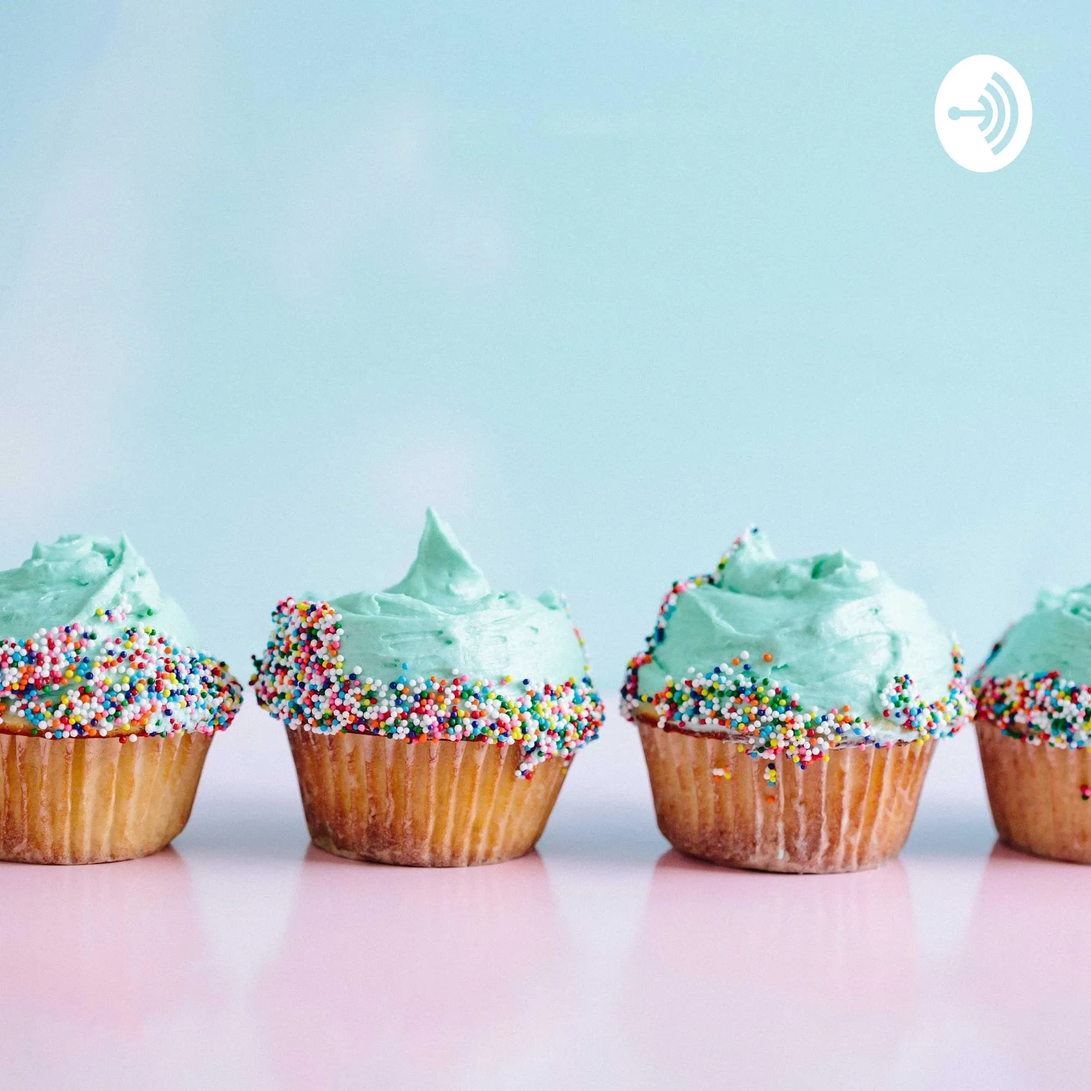
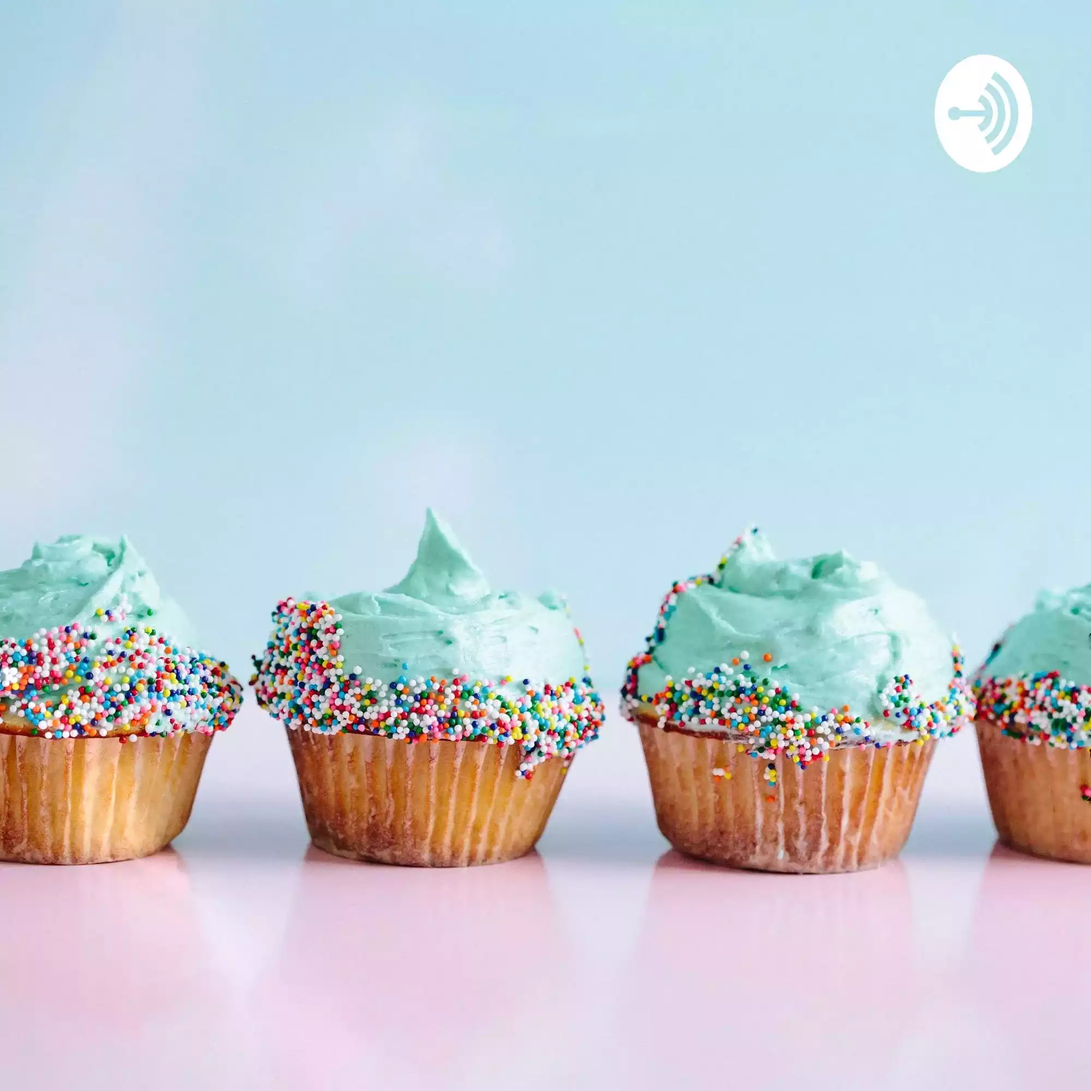
resize some images

Changed region(s): [[0.0, 0.589, 0.186, 0.837]]

diff --git a/index.html b/index.html
@@ -26,7 +26,7 @@
 	<div class="container bloc-sm">
 		<nav class="navbar row">
 			<div class="navbar-header">
-				<a class="navbar-brand" href="index.html"><img src="img/gomike-designs-logo.webp" alt="Logo of GoMike Designs in Atlanta" height="40"></a>
+				<a class="navbar-brand" href="index.html"><img src="img/gomike-designs-logo.webp" alt="Logo of GoMike Designs in Atlanta" width="200px" height="40px"></a>
 				<button id="nav-toggle" type="button" class="ui-navbar-toggle navbar-toggle" data-toggle="collapse" data-target=".navbar-1">
 					<span class="sr-only">Toggle navigation</span><span class="icon-bar"></span><span class="icon-bar"></span><span class="icon-bar"></span>
 				</button>
@@ -52,7 +52,7 @@
 	<div class="container bloc-lg">
 		<div class="row tight-width-whitespace">
 			<div class="col-sm-12">
-				<img src="img/mike-profile.webp" class="center-block image-resize-mode" width="100" alt="Illustration icon of Mike, who is a freelance web designer loving and living in Atlanta">
+				<img src="img/mike-profile.webp" class="center-block image-resize-mode" width="100px" height="auto" alt="Illustration icon of Mike, who is a freelance web designer loving and living in Atlanta">
 				<h1>
 					Build and Renovate Your Website with GoMike Designs!
 				</h1>
@@ -146,7 +146,7 @@
 		</div>
 		<div class="row tight-width-whitespace portfolio-row">
 			<div class="col-sm-6">
-				<a href="#" data-lightbox="img/dogsitters-website.webp" data-gallery-id="gallery-1" data-caption="Website for Atlanta's Premiere dog salon" data-frame="snapshot-lb"><img src="img/dogsitters-website.webp" class="img-responsive portfolio-thumb" alt="Portfolio of a website for Atlanta's premiere dog sitters"/></a>
+				<a href="#" data-lightbox="img/dogsitters-website.webp" data-gallery-id="gallery-1" data-caption="Website for Atlanta's Premiere dog salon" data-frame="snapshot-lb"><img src="img/dogsitters-website.webp" width="100%" height="auto" class="img-responsive portfolio-thumb" alt="Portfolio of a website for Atlanta's premiere dog sitters"/></a>
 				<h3 class="mg-md text-center">
 					Website for Atlanta's premiere Dog Sitters
 				</h3>
@@ -155,7 +155,7 @@
 				</p>
 			</div>
 			<div class="col-sm-6">
-				<a href="#" data-lightbox="img/cupcakes-website.webp" data-gallery-id="gallery-1" data-caption="web redesign for the best cupcakes in Atlanta" data-frame="snapshot-lb"><img src="img/cupcakes-website.webp" class="img-responsive portfolio-thumb" alt="Portfolio of a website for the best Atlanta's cupcakes"></a>
+				<a href="#" data-lightbox="img/cupcakes-website.webp" data-gallery-id="gallery-1" data-caption="web redesign for the best cupcakes in Atlanta" data-frame="snapshot-lb"><img src="img/cupcakes-website.webp" width="100%" height="auto" class="img-responsive portfolio-thumb" alt="Portfolio of a website for the best Atlanta's cupcakes"></a>
 				<h3 class="mg-md text-center">
 					Web redesign for the best Atlanta cupcakes
 				</h3>
@@ -166,7 +166,7 @@
 		</div>
 		<div class="row tight-width-whitespace portfolio-row">
 			<div class="col-sm-6">
-				<a href="#" data-lightbox="img/techgearshop-website.webp" data-gallery-id="gallery-1" data-caption="New logo and website for Atlanta's best tech gear shop" data-frame="snapshot-lb"><img src="img/techgearshop-website.webp" class="img-responsive portfolio-thumb" alt="Portfolio of a website for the best Atlanta's tech gear shop"></a>
+				<a href="#" data-lightbox="img/techgearshop-website.webp" data-gallery-id="gallery-1" data-caption="New logo and website for Atlanta's best tech gear shop" data-frame="snapshot-lb"><img src="img/techgearshop-website.webp" width="100%" height="auto" class="img-responsive portfolio-thumb" alt="Portfolio of a website for the best Atlanta's tech gear shop"></a>
 				<h3 class="mg-md text-center">
 					New logo and website for Atl + Gear - Atlanta's best tech gear shop
 				</h3>
@@ -175,7 +175,7 @@
 				</p>
 			</div>
 			<div class="col-sm-6">
-				<a href="#" data-lightbox="img/legal-website.webp" data-gallery-id="gallery-1" data-caption="Atlanta's legal website generates 30% more clients after web redesign" data-frame="snapshot-lb"><img src="img/legal-website.webp" class="img-responsive portfolio-thumb" alt="Portfolio of an Atlanta's legal website"></a>
+				<a href="#" data-lightbox="img/legal-website.webp" data-gallery-id="gallery-1" data-caption="Atlanta's legal website generates 30% more clients after web redesign" data-frame="snapshot-lb"><img src="img/legal-website.webp" width="100%" height="auto" class="img-responsive portfolio-thumb" alt="Portfolio of an Atlanta's legal website"></a>
 				<h3 class="mg-md text-center">
 					Atlanta's legal new website - Generating 30% more law clients with a refresh
 				</h3>
